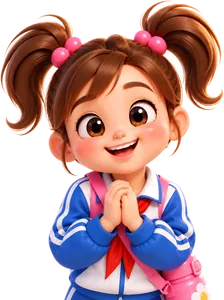
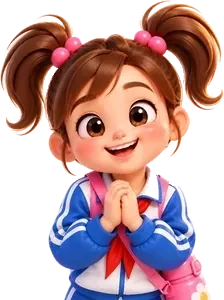
朵朵、学霸主图去掉残留白边

diff --git a/docs/index.html b/docs/index.html
@@ -9,17 +9,17 @@
   <meta name="apple-mobile-web-app-status-bar-style" content="black-translucent" />
   <meta name="apple-mobile-web-app-title" content="买烤肠" />
   <title>校门口烤肠摊</title>
-  <link rel="stylesheet" href="./assets/style.css?v=261021231249" />
+  <link rel="stylesheet" href="./assets/style.css?v=261021231620" />
 </head>
 <body>
   <div id="app" class="scene">
     <div class="sc-stage" id="stage">
-      <img class="sc-bg" alt="" src="./assets/img/scene/bg.webp?v=261021231249" />
+      <img class="sc-bg" alt="" src="./assets/img/scene/bg.webp?v=261021231620" />
       <header class="hud" id="hud"></header>
       <div class="queue" id="queue"></div>
-      <div class="sc-qr"><img alt="" src="./assets/img/scene/qr.webp?v=261021231249" /><div class="speaker" id="speaker"><div class="h">收款音箱</div><div class="e idle">等待收款…</div></div></div>
+      <div class="sc-qr"><img alt="" src="./assets/img/scene/qr.webp?v=261021231620" /><div class="speaker" id="speaker"><div class="h">收款音箱</div><div class="e idle">等待收款…</div></div></div>
       <section class="grill" id="grill">
-        <img class="g-body" id="gbody" alt="" src="./assets/img/scene/grill_off.webp?v=261021231249" />
+        <img class="g-body" id="gbody" alt="" src="./assets/img/scene/grill_off.webp?v=261021231620" />
         <div class="slots" id="slots"></div>
         <span id="grillInfo"></span><span id="fireCtl"></span>
       </section>
@@ -32,6 +32,6 @@
     </div>
   </div>
   <div class="overlay" id="overlay" hidden></div>
-  <script src="./assets/main.js?v=261021231249"></script>
+  <script src="./assets/main.js?v=261021231620"></script>
 </body>
 </html>

diff --git a/tools/clean_white.py b/tools/clean_white.py
@@ -1,0 +1,33 @@
+# 去掉人物抠图残留的白底：从透明区域出发，把相连的近白色像素一起抠掉，再把边缘发白的半透明像素压暗
+import sys
+import numpy as np
+from PIL import Image
+from collections import deque
+src, dst = sys.argv[1], sys.argv[2]
+ymax = float(sys.argv[3]) if len(sys.argv) > 3 else 1.0   # 只处理上面这一段（避免误伤白衬衫）
+im = np.asarray(Image.open(src).convert('RGBA')).copy()
+H, W = im.shape[:2]
+rgb = im[..., :3].astype(int); a = im[..., 3].astype(int)
+mn = rgb.min(2); mx = rgb.max(2)
+white = (mn > 215) & (mx - mn < 28)
+lim = int(H * ymax)
+seen = np.zeros((H, W), bool); q = deque()
+for y in range(lim):
+    for x in range(W):
+        if a[y, x] < 40: seen[y, x] = True; q.append((y, x))
+removed = 0
+while q:
+    y, x = q.popleft()
+    for dy, dx in ((1,0),(-1,0),(0,1),(0,-1)):
+        ny, nx = y + dy, x + dx
+        if 0 <= ny < lim and 0 <= nx < W and not seen[ny, nx] and white[ny, nx]:
+            seen[ny, nx] = True; a[ny, nx] = 0; removed += 1; q.append((ny, nx))
+# 边缘一圈：挨着透明的偏白像素，按白的程度降低不透明度
+trans = a < 40
+edge = np.zeros_like(trans)
+edge[1:] |= trans[:-1]; edge[:-1] |= trans[1:]; edge[:, 1:] |= trans[:, :-1]; edge[:, :-1] |= trans[:, 1:]
+pale = edge & ~trans & (mn > 190) & (np.arange(H)[:, None] < lim)
+a[pale] = (a[pale] * 0.35).astype(int)
+im[..., 3] = a.clip(0, 255).astype(np.uint8)
+Image.fromarray(im).save(dst, 'WEBP', quality=88, method=6)
+print(src, 'removed', removed, 'edge', int(pale.sum()))
